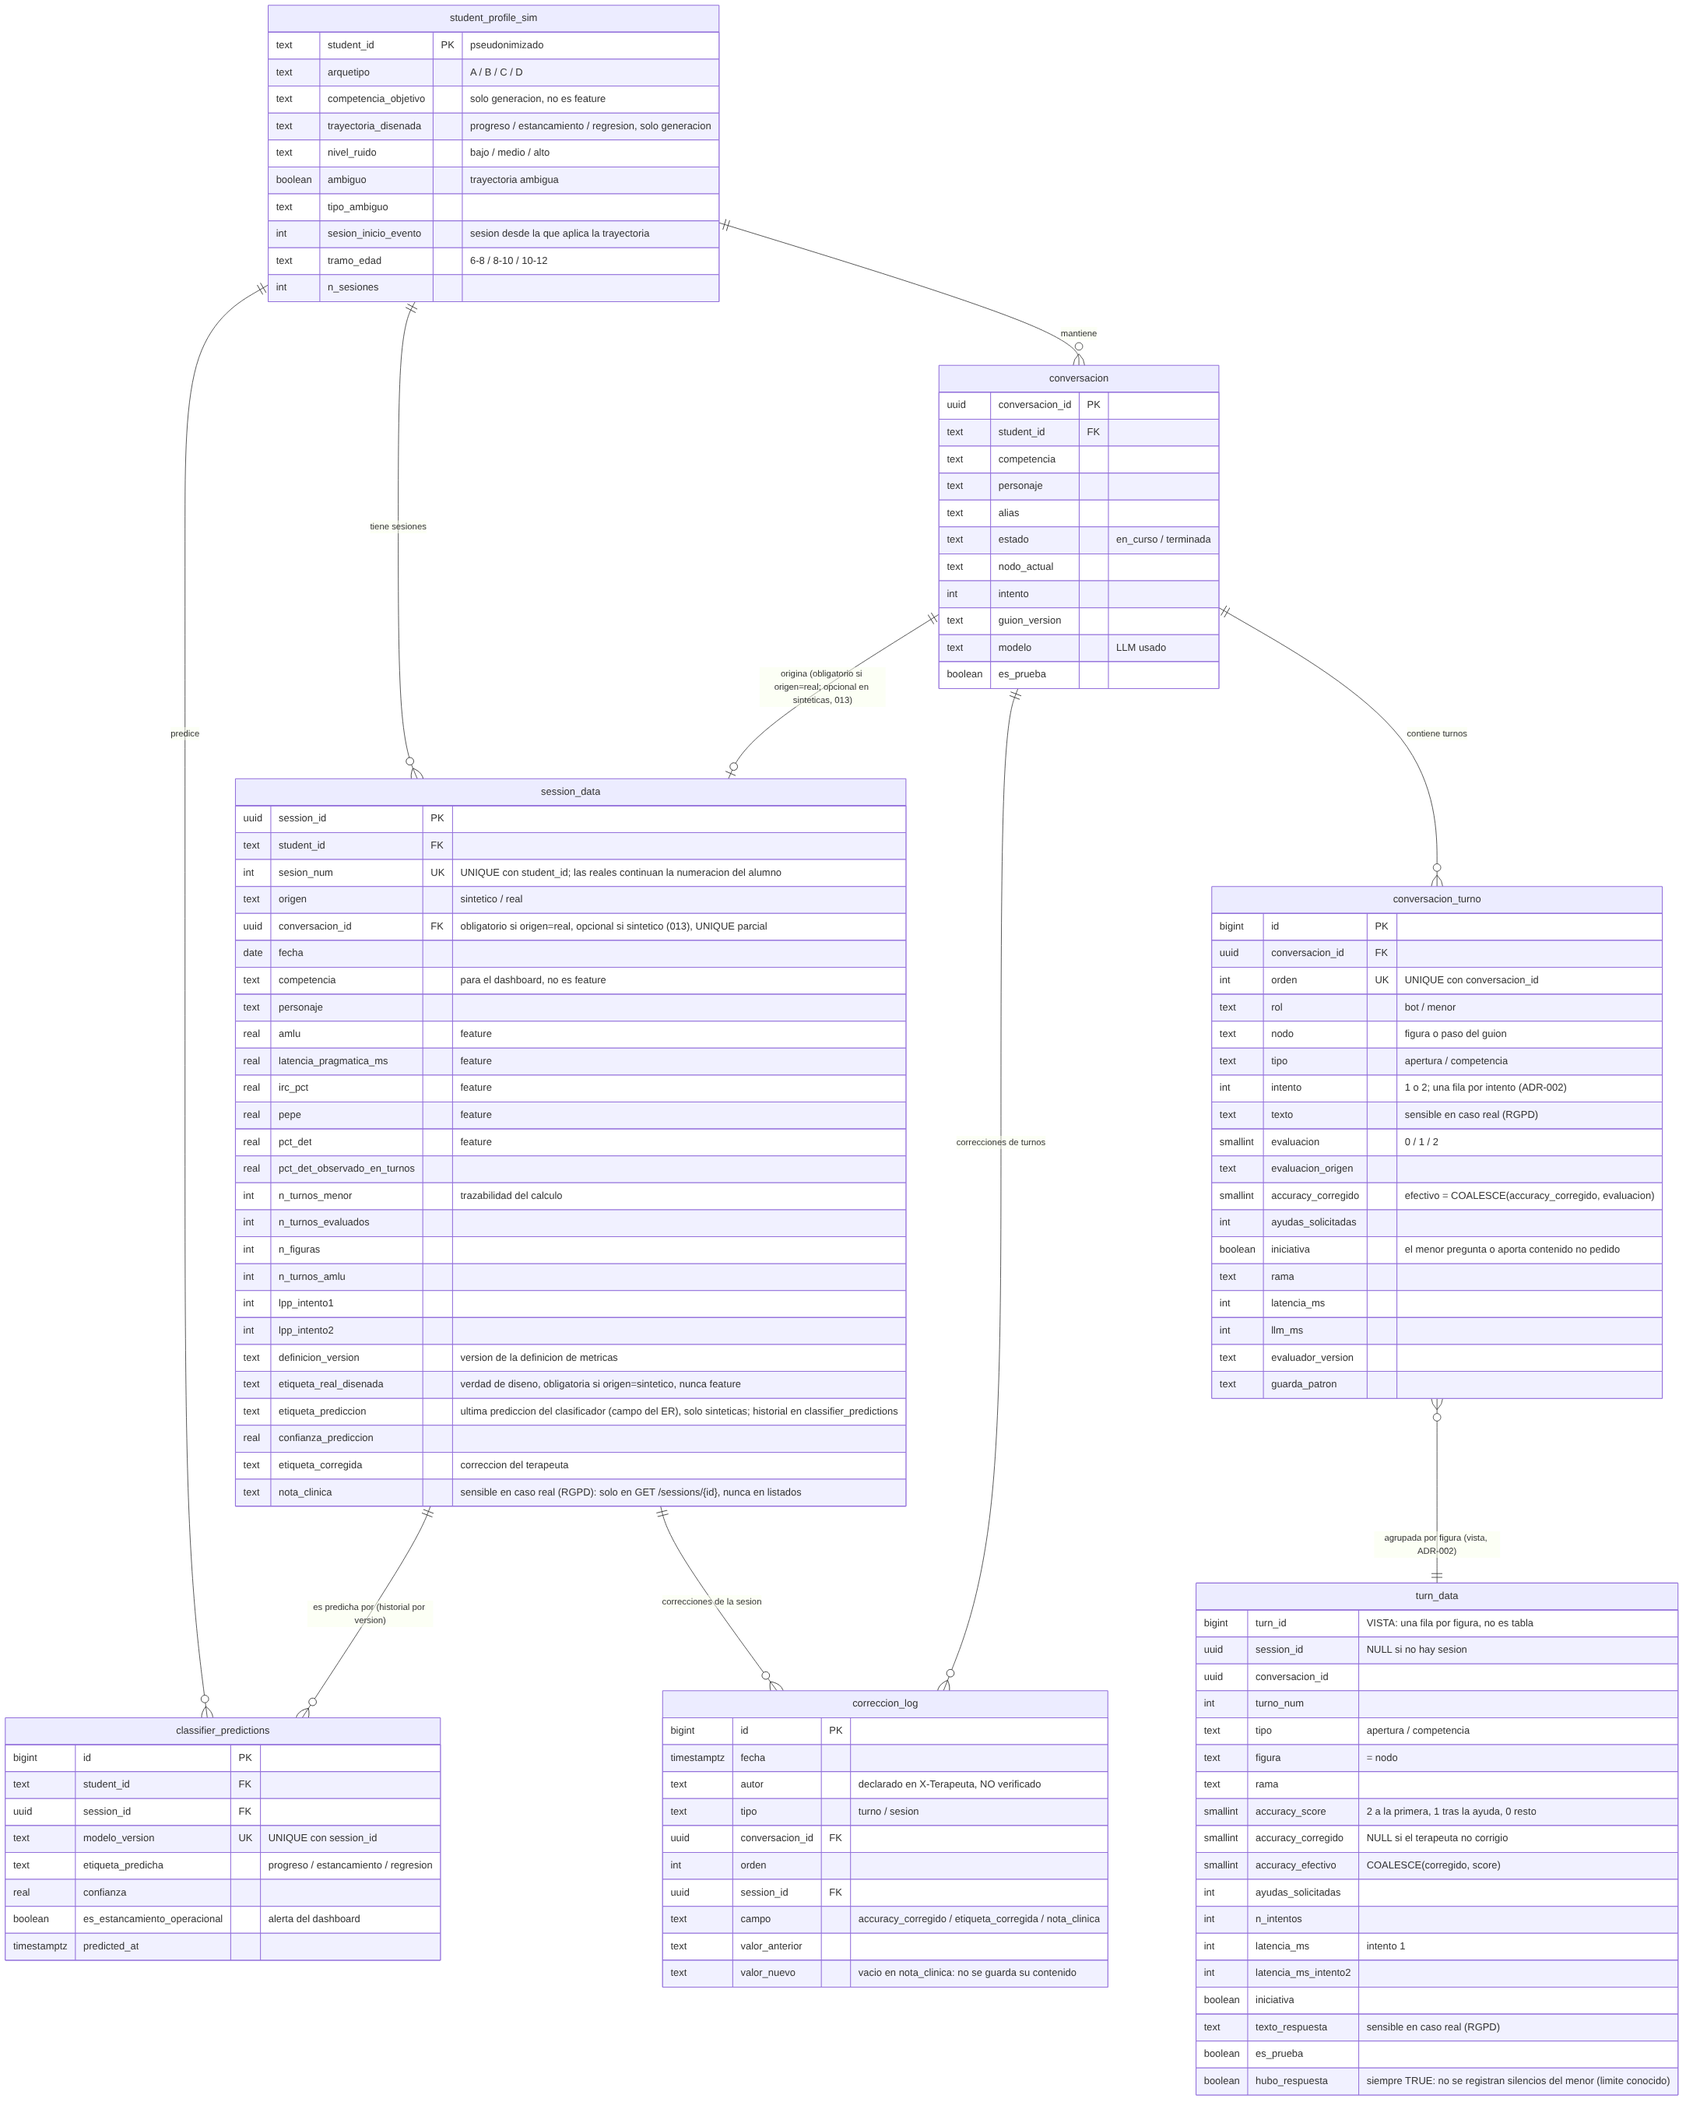
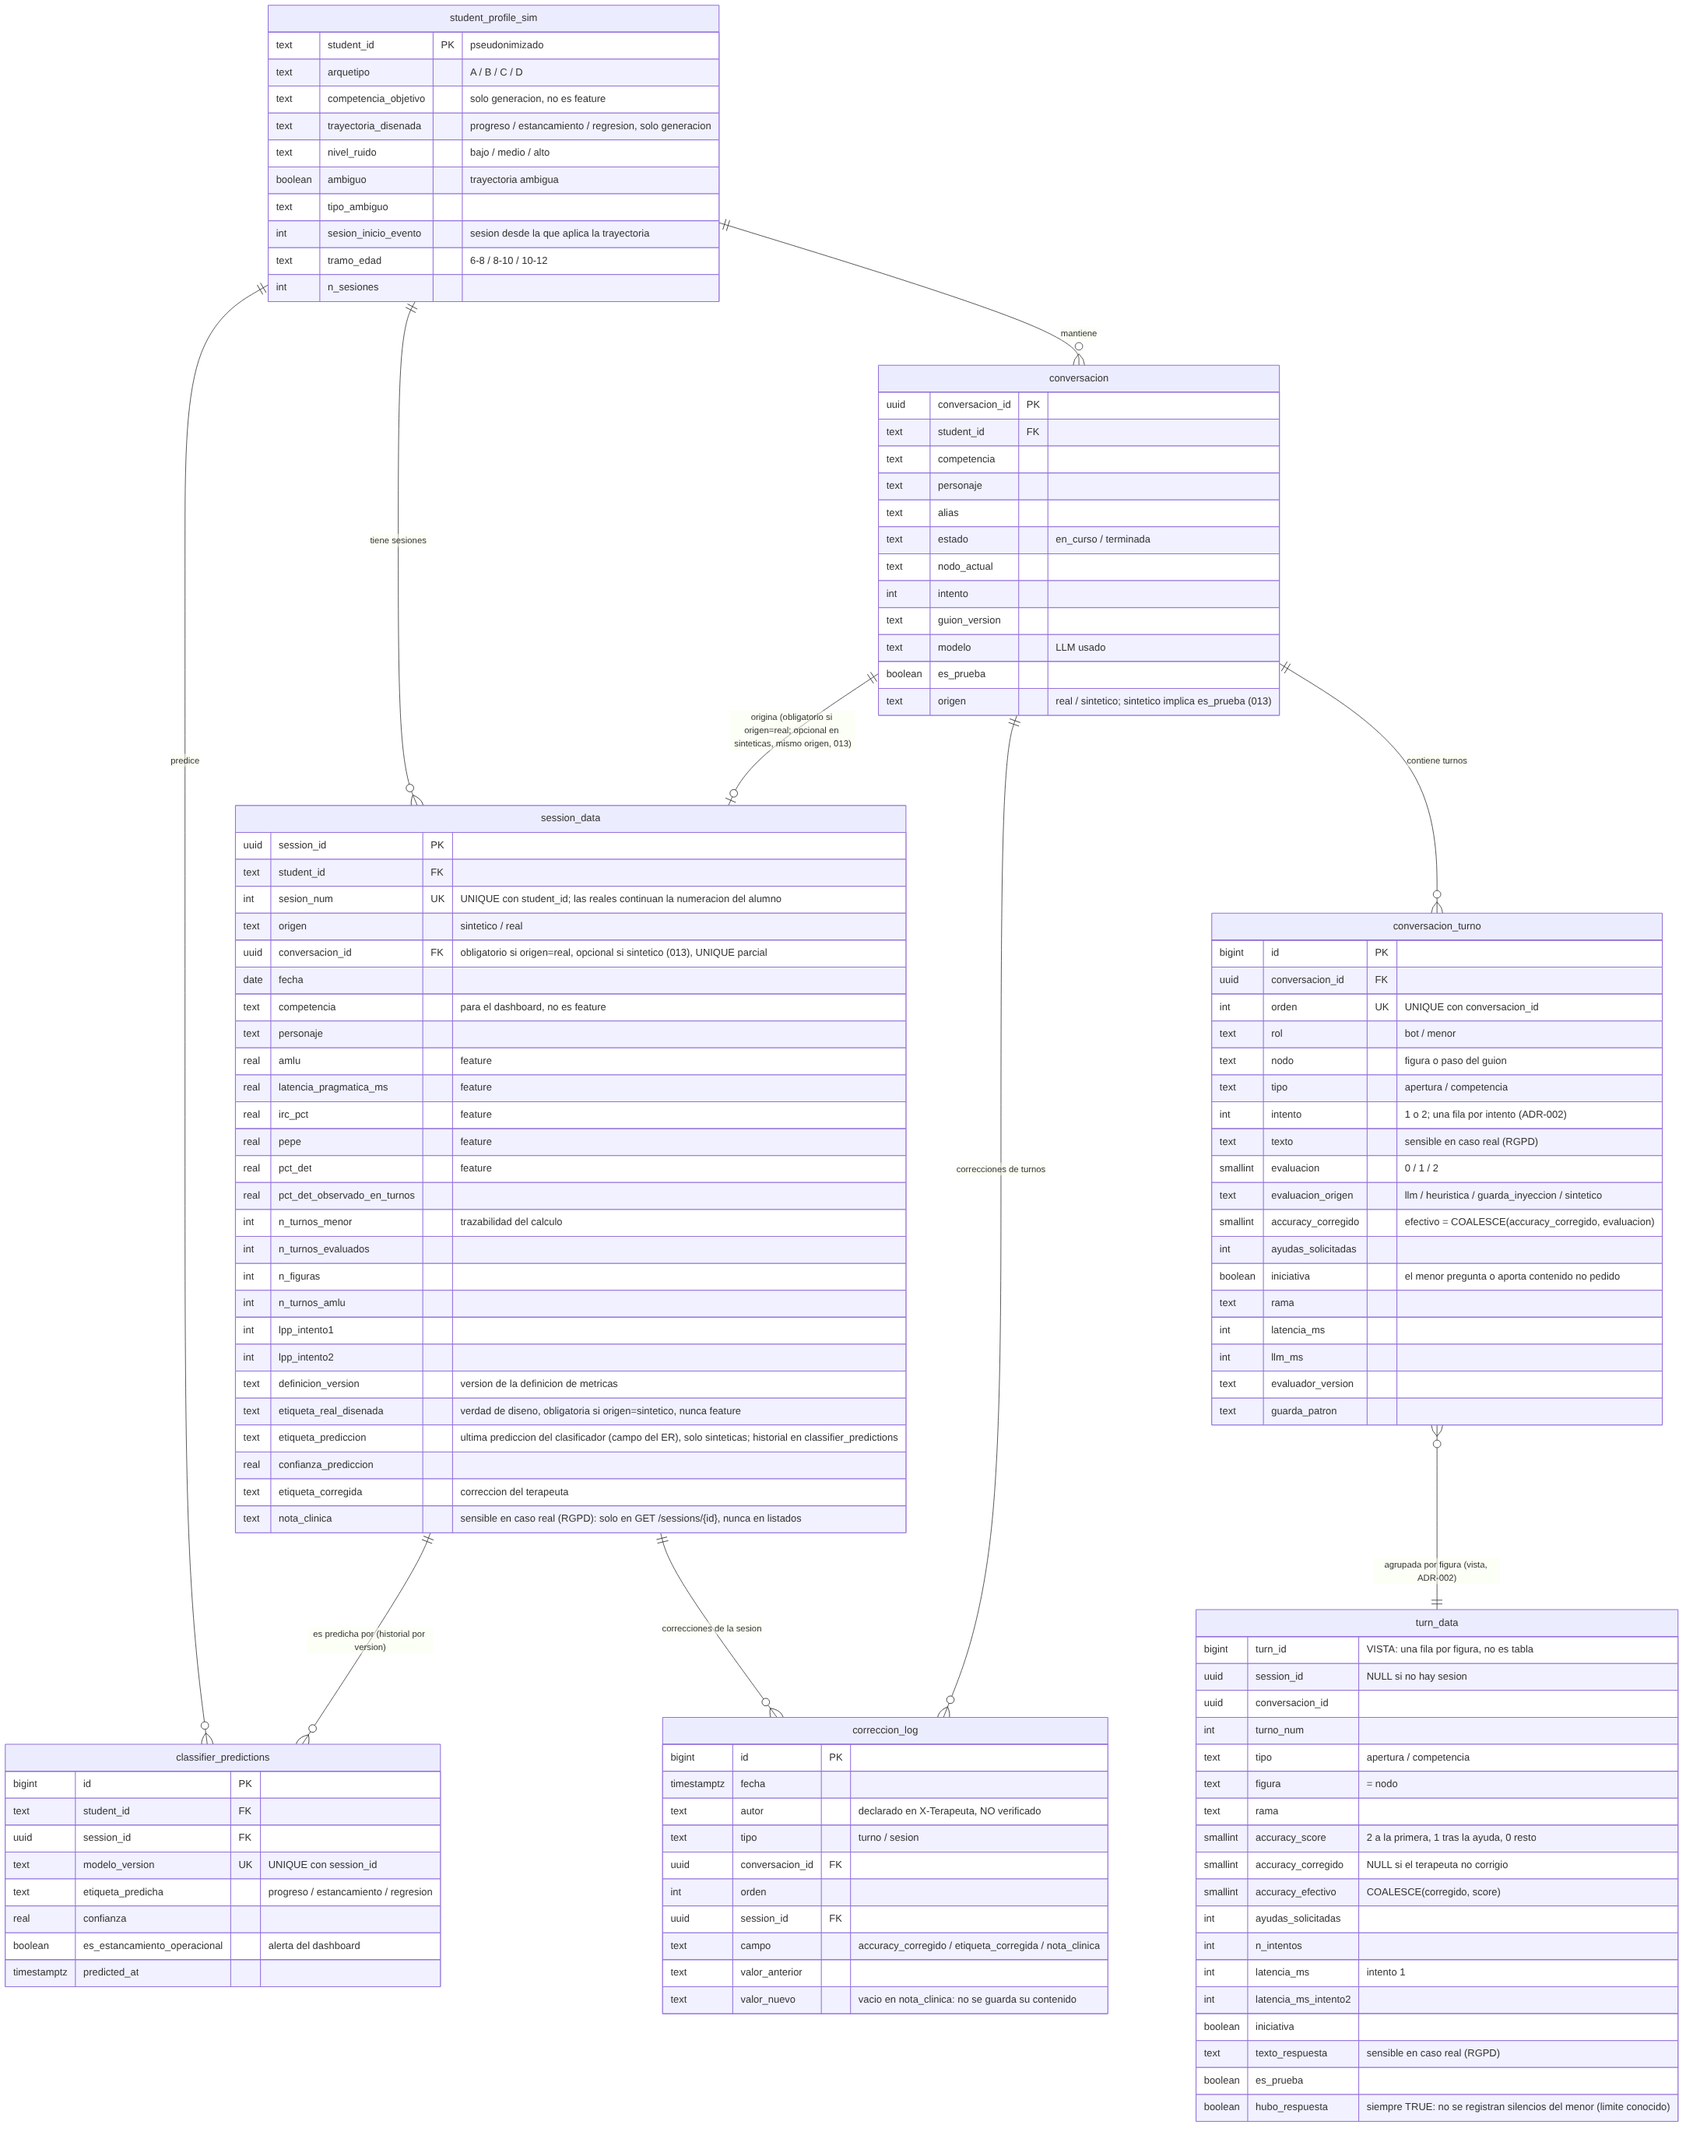
013: ER v2, ADR-001/002 y 009 alineados con conversacion.origen; 182 tests
Claude-Session: https://claude.ai/code/session_01CNC2Py3QtJxEMrwKZtHo1m

diff --git a/docs/adr/ADR-001_session_data_unica_con_origen.md b/docs/adr/ADR-001_session_data_unica_con_origen.md
@@ -48,16 +48,18 @@ Se mantiene **una sola tabla** `session_data`, con `origen IN ('sintetico','real
 Migración **012** (`012_quitar_turnos_jsonb.sql`): se quita la columna `turnos`, a petición de Marcos al revisar el ER v2. Los turnos viven solo en `conversacion_turno` (y en la vista `turn_data`, ADR-002). La migración **aborta** si alguna fila tiene datos en `turnos` (p. ej. un corpus cargado con el generador heredado), en lugar de borrarlos. El ER vigente es [`er_v2.mmd`](../er_v2.mmd) (sin `turnos`, contrastado columna a columna con el esquema real; solo omite las columnas de auditoría `created_at`/`updated_at`). Los recuentos de pruebas de este documento son los de su fecha; hoy la suite tiene 159 pruebas.
 
 ## Addendum (23/10/2026) — turnos sintéticos: opción A (migración 013)
-**Decide:** Álvaro (dueño del esquema) · **Revisa:** Marcos, que solo decide el contrato del generador de turnos.
+**Decide:** Álvaro (dueño del esquema) · **Revisa:** Marcos, autor de `generar_turnos.py` (borrador en la rama `feature/generar-turnos`).
 
-La regla «`origen='real'` ⇔ `conversacion_id` no nulo» impedía que una sesión sintética tuviera turnos: `turn_data` (ADR-002) es una vista sobre `conversacion_turno` y solo veía conversaciones reales (0 filas con el corpus sembrado). Se relaja a **«real exige `conversacion_id`; sintético puede tenerlo»** (`CHECK (origen <> 'real' OR conversacion_id IS NOT NULL)`), y el generador de turnos (`generar_turnos.py`, a cargo de Marcos) crea filas `conversacion` + `conversacion_turno` y enlaza la sesión sintética.
+La regla «`origen='real'` ⇔ `conversacion_id` no nulo» impedía que una sesión sintética tuviera turnos: `turn_data` (ADR-002) es una vista sobre `conversacion_turno` y solo veía conversaciones reales (0 filas con el corpus sembrado). Se relaja a **«real exige `conversacion_id`; sintético puede tenerlo»** (`CHECK (origen <> 'real' OR conversacion_id IS NOT NULL)`). El generador de turnos crea una `conversacion` terminada y sus `conversacion_turno` por cada sesión sintética y enlaza la sesión.
 
 | Riesgo | Cómo se controla |
 |---|---|
-| Una conversación sintética se contaría como real | Debe llevar `conversacion.es_prueba = true` (las métricas reales, `metricas_reales` y los listados ya la excluyen). Un CHECK no mira otra tabla, así que lo impone el disparador `session_data_sintetico_es_prueba`: rechaza una sesión sintética enlazada a una conversación que no sea de prueba |
+| Una conversación sintética se contaría como real | `conversacion.origen` (`real` por defecto, `sintetico`) con `CHECK (origen = 'real' OR es_prueba)`: toda conversación sintética es de prueba, y las métricas reales (`metricas_reales`), los listados y el dashboard ya excluyen `es_prueba` |
+| Una sesión enlazada a una conversación de otro origen | Disparador `session_data_mismo_origen`: sintética solo con conversación sintética, real solo con real (en inserción y en reenlace) |
 | Fuga al entrenamiento | Sin cambios: `train_classifier` filtra `origen='sintetico'`, que ahora puede tener conversación; las reales siguen fuera (test) |
-| Reaplicar migraciones | La 008 solo crea la restricción si falta (no la vuelve a endurecer); test que reaplica todo con una sesión sintética enlazada |
+| La valoración sintética parece del evaluador | `conversacion_turno.evaluacion_origen` admite `'sintetico'` (valoración fijada por diseño, no medida) |
+| Reaplicar migraciones (`make migrate`) | La 007 y la 008 solo crean sus restricciones si faltan o no admiten lo que amplía la 013; hay un test que reaplica todas con datos sintéticos enlazados |
 
-Alternativa descartada (B): tabla aparte de turnos sintéticos; duplicaría la vista y el código. Es reversible con una migración pequeña si Marcos objeta antes del 25/10.
+Alternativa descartada (B): tabla aparte de turnos sintéticos; duplicaría la vista y el código. Es reversible con una migración pequeña.
 
-**Contrato propuesto para `generar_turnos.py`** (a confirmar por Marcos): por cada sesión sintética que quiera con turnos, (1) `INSERT conversacion` con `estado='terminada'`, `es_prueba=true`, `student_id`, `competencia`, `guion_version`, `personaje`, `alias`, `nodo_actual`; (2) `INSERT conversacion_turno` (`orden` correlativo, `rol` `bot`/`menor`, `tipo` `apertura`/`competencia`/`cierre`, `nodo`, `intento` 1 o 2, `texto`, `evaluacion` 0/1/2 solo en el menor en competencia, `latencia_ms`, `iniciativa`, `ayudas_solicitadas`); (3) `UPDATE session_data SET conversacion_id` de esa sesión. Abierto: las métricas ya guardadas en `session_data` (amlu, pepe, irc…) deben salir de esos turnos con las mismas reglas (`app/metricas.py::calcular`) o los turnos deben generarse para cuadrar con ellas; si no cuadran, la memoria lo declara.
+**Contrato de `generar_turnos.py`:** (1) `conversacion` con `origen='sintetico'`, `es_prueba=true`, `estado='terminada'`; (2) `conversacion_turno` (`orden` correlativo, `rol` `bot`/`menor`, `tipo` `apertura`/`competencia`/`cierre`, `intento` 1 o 2, `evaluacion` 0/1/2 solo en el menor en competencia, `evaluacion_origen='sintetico'`); (3) `session_data.conversacion_id` de la sesión correspondiente. Los turnos se derivan de las métricas de la sesión (`session_data` no se recalcula desde ellos) y el propio generador mide la diferencia recalculando con `app/metricas.py::calcular`; el texto del menor es de relleno (sirve para contar palabras). Esas diferencias y límites se declaran en la memoria.

diff --git a/docs/adr/ADR-002_turn_data_vista_sobre_intentos.md b/docs/adr/ADR-002_turn_data_vista_sobre_intentos.md
@@ -35,7 +35,7 @@ La apertura aparece en la vista, pero sin puntuación (no se evalúa). `hubo_res
 - (+) Cero cambios en datos o en el cálculo de métricas; la vista es de solo lectura y la migración, idempotente.
 - (+) El ER entregado y la BD vuelven a coincidir en el nombre y la forma de `turn_data`.
 - (−) **IRC % no es intercambiable con la `iniciativa` de la vista**: IRC se calcula sobre intentos (`n_turnos_menor`), la vista agrega por figura.
-- (−) **Hoy la vista solo tiene filas de conversaciones reales.** El generador sintético no produce turnos (la columna `session_data.turnos`, vacía en las 1500 sesiones, se eliminó en la migración 012) y el `generar_turnos.py` mencionado en NF2 no está en el repositorio. Desde la migración 013 (ADR-001, addendum del 23/10/2026) una sesión sintética puede tener conversación, así que la vista cubrirá también los turnos sintéticos cuando el generador los cree; pendiente de que Marcos lo entregue.
+- (−) **Hoy la vista solo tiene filas de conversaciones reales.** El generador sintético no produce turnos (la columna `session_data.turnos`, vacía en las 1500 sesiones, se eliminó en la migración 012) y el `generar_turnos.py` mencionado en NF2 no está en el repositorio. Desde la migración 013 (ADR-001, addendum del 23/10/2026) una sesión sintética puede tener conversación (`conversacion.origen = 'sintetico'`, siempre `es_prueba`), así que la vista cubrirá también los turnos sintéticos cuando el generador los cree; pendiente de que Marcos lo entregue.
 - (−) La vista incluye conversaciones de prueba o abiertas (`es_prueba`, `session_id` NULL); hay que filtrar en el análisis.
 
 ## Verificación
@@ -46,4 +46,4 @@ La apertura aparece en la vista, pero sin puntuación (no se evalúa). `hubo_res
 - **`evaluacion` (por intento) ≠ `accuracy_score` (por figura).** El guion da ayuda tras un 0 **o un 1** del primer intento, así que `evaluacion = 1` significa «parcial», mientras que `accuracy_score = 1` del ER significa «correcta tras la ayuda». La vista calcula `accuracy_score` con la regla 2 (primer intento 2) / 1 (segundo intento 2) / 0 (resto), la misma que `metricas.puntuar_figuras`.
 - **`ayudas_solicitadas`** cuenta las ayudas **ofrecidas por el guion** (intentos > 1), no pedidas por el menor.
 - **`hubo_respuesta`** (campo del ER) se añade a la vista como constante `TRUE`: el sistema no guarda turnos sin respuesta del menor. Es un límite conocido, no una medida. `es_prueba` también se expone para poder filtrar.
-- La vista cubre las conversaciones que existan; hoy solo las reales. Los turnos sintéticos no existen todavía (`generar_turnos.py`, citado en NF2, no está en los repositorios): pendiente con Marcos. Con la 013 irán con `es_prueba = true` y se distinguen por `session_data.origen` a través de `session_id`.
+- La vista cubre las conversaciones que existan; hoy solo las reales. Los turnos sintéticos no existen todavía (`generar_turnos.py`, citado en NF2, no está en los repositorios): pendiente con Marcos. Con la 013 irán en conversaciones con `origen = 'sintetico'` y `es_prueba = true`.

diff --git a/README.md b/README.md
@@ -18,7 +18,7 @@ Módulo C088 · Curso de Especialización en IA y Big Data (iFP) · Grupo 12: Á
 | Generador de corpus sintético y evaluación antifuga | `src/generador/`, `src/ml/` | De Marcos, sin modificar |
 | Clasificador (RandomForest, CV por alumno, anti-fuga) | `src/scripts/train_classifier.py` | Implementado; entrena offline y escribe la predicción en `session_data` |
 | Vista `turn_data` (una fila por figura, regla 2/1/0) | migración 009 | Implementada (solo conversaciones reales) |
-| Tests (181) | `src/tests/` | Pasan; usan un Ollama simulado (`tests/fake_ollama.py`) |
+| Tests (182) | `src/tests/` | Pasan; usan un Ollama simulado (`tests/fake_ollama.py`) |
 
 ## Diseñado pero NO implementado (límites conocidos)
 
@@ -40,7 +40,7 @@ make up       # crea environment/.env si falta, construye y levanta Postgres + b
 make seed     # genera el corpus sintético (100 alumnos, 1500 sesiones) y lo carga en Postgres
 make train    # entrena el clasificador y escribe las predicciones (~30 s)
 make verify   # conteos en BD (100 / 1500 / 1200) y métricas del modelo; con la semilla por defecto cumple los tres umbrales
-make test     # 181 tests de contrato con un Ollama simulado (no necesita GPU ni modelo)
+make test     # 182 tests de contrato con un Ollama simulado (no necesita GPU ni modelo)
 ```
 
 - Dashboard: <http://localhost:8501> (pipeline, alumno, modelo, sesiones reales). API y `/docs`: <http://localhost:8010>.
